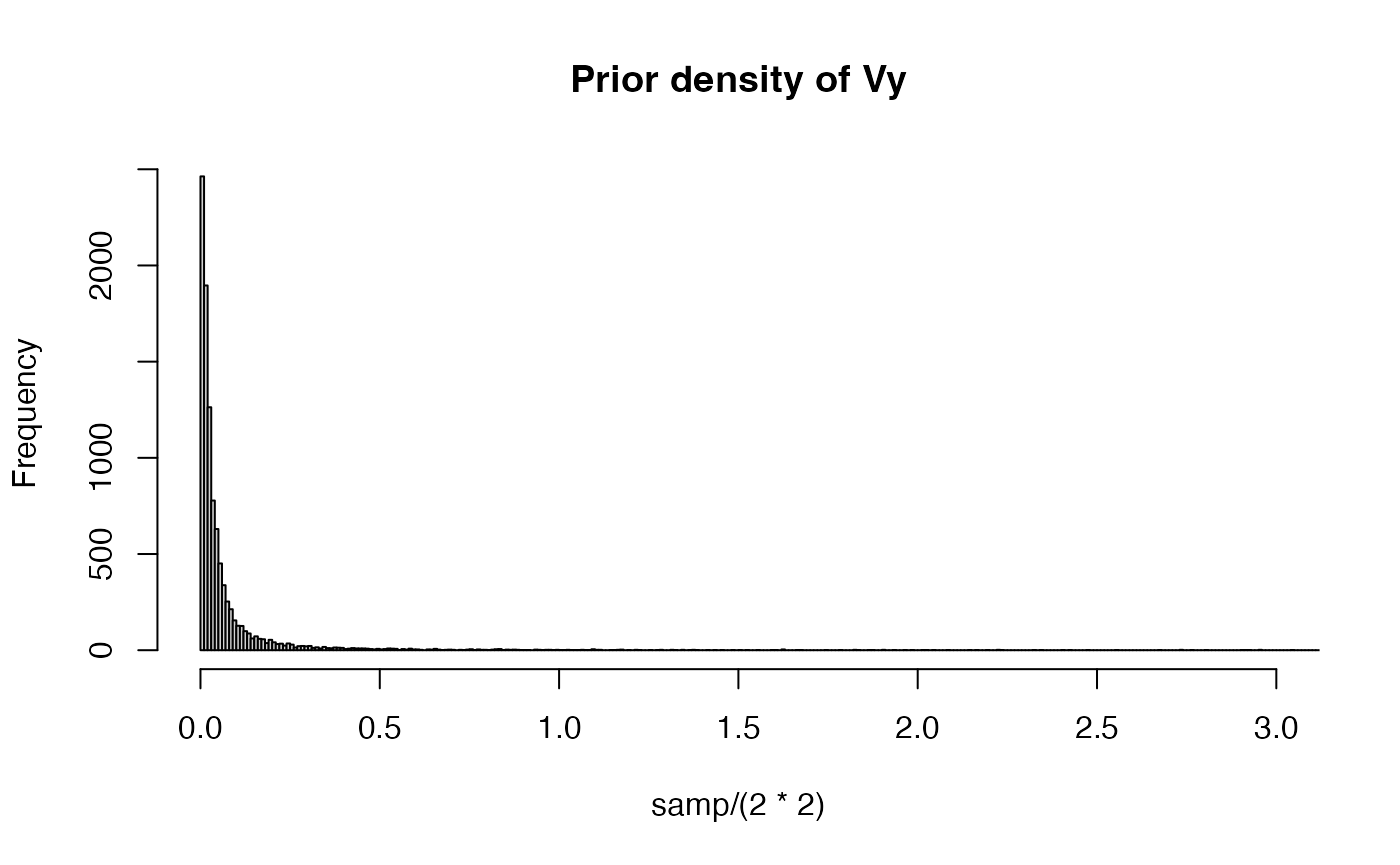
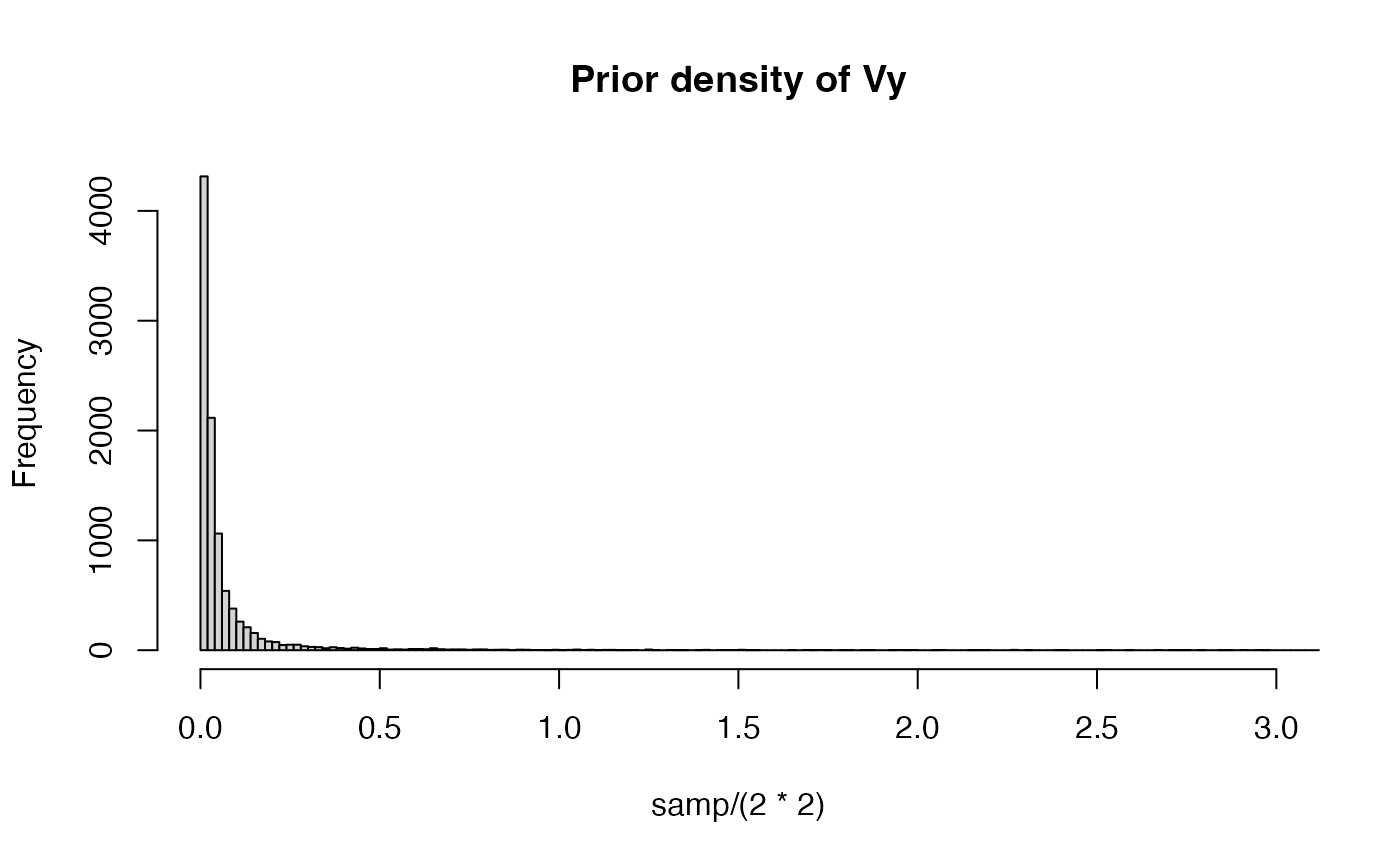
edit

diff --git a/docs/articles/OU-Models.html b/docs/articles/OU-Models.html
@@ -166,8 +166,9 @@
 <span class="va">ruminant.trdata</span><span class="op">$</span><span class="va">dat</span><span class="op">$</span><span class="va">bodycentered</span><span class="op">&lt;-</span><span class="va">ruminant.trdata</span><span class="op">$</span><span class="va">dat</span><span class="op">$</span><span class="va">body_mass_g_log_mean</span><span class="op">-</span><span class="fu"><a href="https://rdrr.io/r/base/mean.html" class="external-link">mean</a></span><span class="op">(</span><span class="va">ruminant.trdata</span><span class="op">$</span><span class="va">dat</span><span class="op">$</span><span class="va">body_mass_g_log_mean</span><span class="op">)</span></code></pre></div>
 </div>
 <div class="section level2">
-<h2 id="next-we-rescale-tree-to-height-1">Next, we rescale Tree to Height = 1<a class="anchor" aria-label="anchor" href="#next-we-rescale-tree-to-height-1"></a>
+<h2 id="rescale-tree">Rescale Tree<a class="anchor" aria-label="anchor" href="#rescale-tree"></a>
 </h2>
+<p>Next, we rescale Tree to Height = 1</p>
 <div class="sourceCode" id="cb4"><pre class="downlit sourceCode r">
 <code class="sourceCode R"><span class="va">l.tree</span><span class="op">&lt;-</span><span class="fu"><a href="https://rdrr.io/r/base/Extremes.html" class="external-link">max</a></span><span class="op">(</span><span class="fu"><a href="https://rdrr.io/pkg/ape/man/branching.times.html" class="external-link">branching.times</a></span><span class="op">(</span><span class="va">ruminant.trdata</span><span class="op">$</span><span class="va">phy</span><span class="op">)</span><span class="op">)</span>
 <span class="va">ruminant.trdata</span><span class="op">$</span><span class="va">phy</span><span class="op">$</span><span class="va">edge.length</span><span class="op">&lt;-</span><span class="va">ruminant.trdata</span><span class="op">$</span><span class="va">phy</span><span class="op">$</span><span class="va">edge.length</span><span class="op">/</span><span class="va">l.tree</span> <span class="co">## rescale tree to height 1</span>
@@ -175,9 +176,9 @@
 <span class="co">#&gt; [1] 1</span></code></pre></div>
 </div>
 <div class="section level2">
-<h2 id="running-blouch-data-setup-function---1st-trait-is-adapting-to-2">Running Blouch Data Setup Function - 1st trait is adapting to 2<a class="anchor" aria-label="anchor" href="#running-blouch-data-setup-function---1st-trait-is-adapting-to-2"></a>
+<h2 id="running-blouch-data-setup-function">Running Blouch Data Setup Function<a class="anchor" aria-label="anchor" href="#running-blouch-data-setup-function"></a>
 </h2>
-<p>Here we are finally setting up our dataset to run in Blouch, using the blouchOU.setup.v1() function. This function takes out data formatted by treeplyr, and the names of our traits of interest in the order shown. The list produced by this function has data formatted to run both the direct effect (constraint) models and adaptative models. See Grabowski et al. (2016) for more on both of these models.</p>
+<p>Here we are finally setting up our dataset to run in Blouch, using the blouchOU.setup.v1() function. This function takes out data formatted by treeplyr, and the names of our traits of interest in the order shown. The list produced by this function has data formatted to run both the direct effect (constraint) models and adaptative models. See Grabowski et al. (2016) for more on both of these models. Here the first trait is adapting towards the second.</p>
 <div class="sourceCode" id="cb5"><pre class="downlit sourceCode r">
 <code class="sourceCode R">
 <span class="co">#names.traits&lt;-c("brain_mass_g_log_mean","bodycentered","NA","NA") #With ME</span>
@@ -253,13 +254,13 @@
 <div class="sourceCode" id="cb9"><pre class="downlit sourceCode r">
 <code class="sourceCode R"><span class="co">#abline(v=(c(log(2)/0.07142857,log(2)/1)), col="red", lwd=2, lty=2) #Lines for 1 Ma and length of tree (14 Ma) - </span>
 <span class="fu"><a href="https://rdrr.io/r/base/Extremes.html" class="external-link">min</a></span><span class="op">(</span><span class="va">samp</span><span class="op">)</span>
-<span class="co">#&gt; [1] 0.02558487</span>
+<span class="co">#&gt; [1] 0.03632472</span>
 <span class="fu"><a href="https://rdrr.io/r/base/Extremes.html" class="external-link">max</a></span><span class="op">(</span><span class="va">samp</span><span class="op">)</span>
-<span class="co">#&gt; [1] 293.2979</span>
+<span class="co">#&gt; [1] 452.0468</span>
 <span class="fu"><a href="https://rdrr.io/r/base/Log.html" class="external-link">log</a></span><span class="op">(</span><span class="fl">2</span><span class="op">)</span><span class="op">/</span><span class="fu"><a href="https://rdrr.io/r/base/Extremes.html" class="external-link">min</a></span><span class="op">(</span><span class="va">samp</span><span class="op">)</span>
-<span class="co">#&gt; [1] 27.09208</span>
+<span class="co">#&gt; [1] 19.08197</span>
 <span class="fu"><a href="https://rdrr.io/r/base/Log.html" class="external-link">log</a></span><span class="op">(</span><span class="fl">2</span><span class="op">)</span><span class="op">/</span><span class="fu"><a href="https://rdrr.io/r/base/Extremes.html" class="external-link">max</a></span><span class="op">(</span><span class="va">samp</span><span class="op">)</span>
-<span class="co">#&gt; [1] 0.002363288</span>
+<span class="co">#&gt; [1] 0.001533353</span>
 
 <span class="va">quantiles</span> <span class="op">&lt;-</span> <span class="fu"><a href="https://rdrr.io/r/base/c.html" class="external-link">c</a></span><span class="op">(</span><span class="fl">0</span>, <span class="fl">0.01</span>, <span class="fl">0.025</span>,<span class="fl">0.10</span>, <span class="fl">0.25</span>, <span class="fl">0.5</span>, <span class="fl">0.75</span>,<span class="fl">0.90</span>,<span class="fl">0.95</span>, <span class="fl">0.975</span>, <span class="fl">0.99</span>, <span class="fl">1</span><span class="op">)</span>
 <span class="co">#hls &lt;- rlnorm(10000, meanlog=log(2)/par.alpha$meanlog, sdlog=log(2)/par.alpha$sdlog)</span>
@@ -267,7 +268,7 @@
 <span class="va">qs</span> <span class="op">&lt;-</span> <span class="fu"><a href="https://rdrr.io/r/stats/quantile.html" class="external-link">quantile</a></span><span class="op">(</span><span class="fu"><a href="https://rdrr.io/r/base/Log.html" class="external-link">log</a></span><span class="op">(</span><span class="fl">2</span><span class="op">)</span><span class="op">/</span><span class="va">samp</span>, <span class="va">quantiles</span><span class="op">)</span> <span class="co">## Use 'alfs' and math to calculate the quantiles of phylogenetic half-life</span>
 <span class="fu"><a href="https://rdrr.io/r/base/Round.html" class="external-link">round</a></span><span class="op">(</span><span class="va">qs</span>, <span class="fl">2</span><span class="op">)</span>
 <span class="co">#&gt;    0%    1%  2.5%   10%   25%   50%   75%   90%   95% 97.5%   99%  100% </span>
-<span class="co">#&gt;  0.00  0.01  0.02  0.04  0.09  0.20  0.47  0.99  1.55  2.45  3.93 27.09</span>
+<span class="co">#&gt;  0.00  0.01  0.02  0.04  0.09  0.20  0.46  0.98  1.52  2.26  3.72 19.08</span>
 
 <span class="fu"><a href="https://rdrr.io/r/graphics/hist.html" class="external-link">hist</a></span><span class="op">(</span><span class="op">(</span><span class="fu"><a href="https://rdrr.io/r/base/Log.html" class="external-link">log</a></span><span class="op">(</span><span class="fl">2</span><span class="op">)</span><span class="op">/</span><span class="va">samp</span><span class="op">)</span>, breaks<span class="op">=</span><span class="fl">10000</span>, main<span class="op">=</span><span class="st">"Prior density of half-life"</span>,xlim<span class="op">=</span><span class="fu"><a href="https://rdrr.io/r/base/c.html" class="external-link">c</a></span><span class="op">(</span><span class="fl">0</span>,<span class="fl">3</span><span class="op">)</span><span class="op">)</span>
 <span class="fu"><a href="https://rdrr.io/r/graphics/abline.html" class="external-link">abline</a></span><span class="op">(</span>v<span class="op">=</span><span class="op">(</span><span class="fu"><a href="https://rdrr.io/r/base/c.html" class="external-link">c</a></span><span class="op">(</span><span class="fl">0.04</span>,<span class="fl">1</span><span class="op">)</span><span class="op">)</span>, col<span class="op">=</span><span class="st">"red"</span>, lwd<span class="op">=</span><span class="fl">2</span>, lty<span class="op">=</span><span class="fl">2</span><span class="op">)</span> <span class="co">#Lines for 1 Ma and length of tree (27 Ma) - </span></code></pre></div>
@@ -297,13 +298,13 @@
 <div class="sourceCode" id="cb12"><pre class="downlit sourceCode r">
 <code class="sourceCode R"><span class="co">#abline(v=(c(log(2)/0.07142857,log(2)/1)), col="red", lwd=2, lty=2) #Lines for 1 Ma and length of tree (14 Ma) - </span>
 <span class="fu"><a href="https://rdrr.io/r/base/Extremes.html" class="external-link">min</a></span><span class="op">(</span><span class="va">samp</span><span class="op">)</span>
-<span class="co">#&gt; [1] 7.036343e-06</span>
+<span class="co">#&gt; [1] 1.342805e-05</span>
 <span class="fu"><a href="https://rdrr.io/r/base/Extremes.html" class="external-link">max</a></span><span class="op">(</span><span class="va">samp</span><span class="op">)</span>
-<span class="co">#&gt; [1] 500.6319</span>
+<span class="co">#&gt; [1] 689.2759</span>
 <span class="fu"><a href="https://rdrr.io/r/base/Log.html" class="external-link">log</a></span><span class="op">(</span><span class="fl">2</span><span class="op">)</span><span class="op">/</span><span class="fu"><a href="https://rdrr.io/r/base/Extremes.html" class="external-link">min</a></span><span class="op">(</span><span class="va">samp</span><span class="op">)</span>
-<span class="co">#&gt; [1] 98509.57</span>
+<span class="co">#&gt; [1] 51619.34</span>
 <span class="fu"><a href="https://rdrr.io/r/base/Log.html" class="external-link">log</a></span><span class="op">(</span><span class="fl">2</span><span class="op">)</span><span class="op">/</span><span class="fu"><a href="https://rdrr.io/r/base/Extremes.html" class="external-link">max</a></span><span class="op">(</span><span class="va">samp</span><span class="op">)</span>
-<span class="co">#&gt; [1] 0.001384545</span>
+<span class="co">#&gt; [1] 0.001005616</span>
 
 <span class="va">quantiles</span> <span class="op">&lt;-</span> <span class="fu"><a href="https://rdrr.io/r/base/c.html" class="external-link">c</a></span><span class="op">(</span><span class="fl">0</span>, <span class="fl">0.01</span>, <span class="fl">0.025</span>,<span class="fl">0.10</span>, <span class="fl">0.25</span>, <span class="fl">0.5</span>, <span class="fl">0.75</span>, <span class="fl">0.90</span>, <span class="fl">0.975</span>, <span class="fl">0.99</span>, <span class="fl">1</span><span class="op">)</span>
 <span class="co">#hls &lt;- rlnorm(10000, meanlog=log(2)/par.alpha$meanlog, sdlog=log(2)/par.alpha$sdlog)</span>
@@ -311,7 +312,7 @@
 <span class="va">qs</span> <span class="op">&lt;-</span> <span class="fu"><a href="https://rdrr.io/r/stats/quantile.html" class="external-link">quantile</a></span><span class="op">(</span><span class="va">samp</span>, <span class="va">quantiles</span><span class="op">)</span> <span class="co">## Use 'alfs' and math to calculate the quantiles of phylogenetic half-life</span>
 <span class="fu"><a href="https://rdrr.io/r/base/Round.html" class="external-link">round</a></span><span class="op">(</span><span class="va">qs</span>, <span class="fl">2</span><span class="op">)</span>
 <span class="co">#&gt;     0%     1%   2.5%    10%    25%    50%    75%    90%  97.5%    99%   100% </span>
-<span class="co">#&gt;   0.00   0.00   0.00   0.02   0.04   0.10   0.24   0.63   2.33   5.95 500.63</span>
+<span class="co">#&gt;   0.00   0.00   0.00   0.02   0.04   0.10   0.24   0.62   2.57   6.93 689.28</span>
 
 <span class="fu"><a href="https://rdrr.io/r/graphics/hist.html" class="external-link">hist</a></span><span class="op">(</span><span class="va">samp</span><span class="op">/</span><span class="op">(</span><span class="fl">2</span><span class="op">*</span><span class="fl">2</span><span class="op">)</span>, breaks<span class="op">=</span><span class="fl">10000</span>, main<span class="op">=</span><span class="st">"Prior density of Vy"</span>,xlim<span class="op">=</span><span class="fu"><a href="https://rdrr.io/r/base/c.html" class="external-link">c</a></span><span class="op">(</span><span class="fl">0</span>,<span class="fl">3</span><span class="op">)</span><span class="op">)</span></code></pre></div>
 <p><img src="OU-Models_files/figure-html/unnamed-chunk-6-2.png" width="700"></p>
@@ -336,15 +337,15 @@
 <span class="co">#&gt; post-warmup draws per chain=2000, total post-warmup draws=4000.</span>
 <span class="co">#&gt; </span>
 <span class="co">#&gt;           mean se_mean   sd 2.5%  25%  50%  75% 97.5% n_eff Rhat</span>
-<span class="co">#&gt; a         5.56    0.28 8.49 0.45 1.51 2.84 5.71 29.44   899 1.00</span>
-<span class="co">#&gt; hl        0.38    0.01 0.45 0.02 0.12 0.24 0.46  1.54  1183 1.00</span>
-<span class="co">#&gt; alpha     5.05    0.00 0.04 4.97 5.03 5.06 5.08  5.13  1427 1.00</span>
-<span class="co">#&gt; beta[1]   0.57    0.00 0.02 0.53 0.55 0.57 0.58  0.61  2535 1.00</span>
-<span class="co">#&gt; vy        0.02    0.00 0.01 0.01 0.01 0.01 0.02  0.04   988 1.00</span>
-<span class="co">#&gt; r_squared 0.96    0.00 0.00 0.95 0.96 0.96 0.96  0.97   740 1.01</span>
-<span class="co">#&gt; sigma2_y  0.15    0.01 0.23 0.02 0.05 0.08 0.15  0.85   783 1.00</span>
+<span class="co">#&gt; a         5.67    0.26 8.54 0.39 1.44 2.87 6.02 29.39  1072    1</span>
+<span class="co">#&gt; hl        0.40    0.01 0.51 0.02 0.12 0.24 0.48  1.78  1730    1</span>
+<span class="co">#&gt; alpha     5.05    0.00 0.04 4.97 5.03 5.05 5.08  5.14  1454    1</span>
+<span class="co">#&gt; beta[1]   0.57    0.00 0.02 0.53 0.55 0.57 0.58  0.61  2000    1</span>
+<span class="co">#&gt; vy        0.02    0.00 0.01 0.01 0.01 0.02 0.02  0.05  2207    1</span>
+<span class="co">#&gt; r_squared 0.96    0.00 0.00 0.95 0.96 0.96 0.96  0.97  1030    1</span>
+<span class="co">#&gt; sigma2_y  0.16    0.01 0.22 0.02 0.05 0.08 0.16  0.78   979    1</span>
 <span class="co">#&gt; </span>
-<span class="co">#&gt; Samples were drawn using NUTS(diag_e) at Thu Dec  9 08:44:10 2021.</span>
+<span class="co">#&gt; Samples were drawn using NUTS(diag_e) at Thu Dec  9 09:18:25 2021.</span>
 <span class="co">#&gt; For each parameter, n_eff is a crude measure of effective sample size,</span>
 <span class="co">#&gt; and Rhat is the potential scale reduction factor on split chains (at </span>
 <span class="co">#&gt; convergence, Rhat=1).</span>
@@ -383,18 +384,18 @@
 <span class="co">#&gt; 2 chains, each with iter=4000; warmup=2000; thin=1; </span>
 <span class="co">#&gt; post-warmup draws per chain=2000, total post-warmup draws=4000.</span>
 <span class="co">#&gt; </span>
-<span class="co">#&gt;               mean se_mean    sd  2.5%   25%   50%   75% 97.5% n_eff Rhat</span>
-<span class="co">#&gt; a            42.54    0.49 22.15 15.28 27.02 37.40 51.74 99.68  2081    1</span>
-<span class="co">#&gt; hl            0.02    0.00  0.01  0.01  0.01  0.02  0.03  0.05  2368    1</span>
-<span class="co">#&gt; alpha         5.06    0.00  0.03  4.99  5.04  5.06  5.08  5.12  2627    1</span>
-<span class="co">#&gt; beta[1]       0.59    0.00  0.02  0.55  0.57  0.59  0.60  0.63  3237    1</span>
-<span class="co">#&gt; beta_evol[1]  5.06    0.00  0.00  5.05  5.06  5.06  5.06  5.06  3958    1</span>
-<span class="co">#&gt; beta_evol[2]  0.57    0.00  0.00  0.57  0.57  0.57  0.57  0.57  2795    1</span>
-<span class="co">#&gt; vy            0.01    0.00  0.00  0.00  0.00  0.00  0.01  0.02  3318    1</span>
-<span class="co">#&gt; r_squared     0.96    0.00  0.00  0.95  0.96  0.96  0.96  0.97  1583    1</span>
-<span class="co">#&gt; sigma2_y      0.47    0.01  0.49  0.01  0.12  0.30  0.67  1.86  2094    1</span>
+<span class="co">#&gt;               mean se_mean    sd  2.5%   25%   50%   75%  97.5% n_eff Rhat</span>
+<span class="co">#&gt; a            42.34    0.59 22.73 14.84 27.04 36.79 51.70 101.32  1496    1</span>
+<span class="co">#&gt; hl            0.02    0.00  0.01  0.01  0.01  0.02  0.03   0.05  1771    1</span>
+<span class="co">#&gt; alpha         5.06    0.00  0.03  4.99  5.04  5.06  5.08   5.12  2533    1</span>
+<span class="co">#&gt; beta[1]       0.59    0.00  0.02  0.55  0.57  0.59  0.60   0.63  2705    1</span>
+<span class="co">#&gt; beta_evol[1]  5.06    0.00  0.00  5.05  5.06  5.06  5.06   5.06  3868    1</span>
+<span class="co">#&gt; beta_evol[2]  0.57    0.00  0.00  0.57  0.57  0.57  0.57   0.57  2226    1</span>
+<span class="co">#&gt; vy            0.01    0.00  0.00  0.00  0.00  0.00  0.01   0.02  3503    1</span>
+<span class="co">#&gt; r_squared     0.96    0.00  0.00  0.95  0.96  0.96  0.96   0.97  1557    1</span>
+<span class="co">#&gt; sigma2_y      0.47    0.01  0.47  0.01  0.12  0.31  0.67   1.82  1872    1</span>
 <span class="co">#&gt; </span>
-<span class="co">#&gt; Samples were drawn using NUTS(diag_e) at Thu Dec  9 08:48:58 2021.</span>
+<span class="co">#&gt; Samples were drawn using NUTS(diag_e) at Thu Dec  9 09:24:19 2021.</span>
 <span class="co">#&gt; For each parameter, n_eff is a crude measure of effective sample size,</span>
 <span class="co">#&gt; and Rhat is the potential scale reduction factor on split chains (at </span>
 <span class="co">#&gt; convergence, Rhat=1).</span>
@@ -423,7 +424,7 @@
 <span class="va">lml.fit.adaptive</span><span class="op">&lt;-</span><span class="fu"><a href="https://rdrr.io/pkg/bridgesampling/man/bridge_sampler.html" class="external-link">bridge_sampler</a></span><span class="op">(</span><span class="va">fit.adaptive</span>,silent<span class="op">=</span><span class="cn">TRUE</span><span class="op">)</span>
 <span class="va">BF_att</span> <span class="op">&lt;-</span> <span class="fu">bridgesampling</span><span class="fu">::</span><span class="fu"><a href="https://rdrr.io/pkg/bridgesampling/man/bf.html" class="external-link">bf</a></span><span class="op">(</span><span class="va">lml.fit.direct</span>, <span class="va">lml.fit.adaptive</span><span class="op">)</span>
 <span class="va">BF_att</span>
-<span class="co">#&gt; Estimated Bayes factor in favor of lml.fit.direct over lml.fit.adaptive: 33.98126</span></code></pre></div>
+<span class="co">#&gt; Estimated Bayes factor in favor of lml.fit.direct over lml.fit.adaptive: 33.22295</span></code></pre></div>
 <p>We find that the data is 5.2 more likely under a model that assumes a direct effect model rather than af adaptive model.</p>
 </div>
 <div class="section level2">
@@ -439,12 +440,12 @@
 <span class="co">#&gt; post-warmup draws per chain=2000, total post-warmup draws=4000.</span>
 <span class="co">#&gt; </span>
 <span class="co">#&gt;           mean se_mean   sd 2.5%  25%  50%  75% 97.5% n_eff Rhat</span>
-<span class="co">#&gt; alpha     5.05       0 0.08 4.87 5.00 5.05 5.11  5.21  3035    1</span>
-<span class="co">#&gt; beta[1]   0.56       0 0.02 0.51 0.54 0.56 0.57  0.60  3365    1</span>
-<span class="co">#&gt; r_squared 0.99       0 0.01 0.98 0.99 0.99 0.99  0.99  2315    1</span>
-<span class="co">#&gt; sigma2_y  0.03       0 0.01 0.01 0.02 0.02 0.03  0.05  2752    1</span>
+<span class="co">#&gt; alpha     5.05       0 0.08 4.89 5.00 5.05 5.11  5.22  2861    1</span>
+<span class="co">#&gt; beta[1]   0.56       0 0.02 0.51 0.54 0.56 0.57  0.60  2949    1</span>
+<span class="co">#&gt; r_squared 0.99       0 0.01 0.98 0.99 0.99 0.99  0.99  2577    1</span>
+<span class="co">#&gt; sigma2_y  0.03       0 0.01 0.01 0.02 0.02 0.03  0.05  3048    1</span>
 <span class="co">#&gt; </span>
-<span class="co">#&gt; Samples were drawn using NUTS(diag_e) at Thu Dec  9 08:51:54 2021.</span>
+<span class="co">#&gt; Samples were drawn using NUTS(diag_e) at Thu Dec  9 09:27:32 2021.</span>
 <span class="co">#&gt; For each parameter, n_eff is a crude measure of effective sample size,</span>
 <span class="co">#&gt; and Rhat is the potential scale reduction factor on split chains (at </span>
 <span class="co">#&gt; convergence, Rhat=1).</span>
@@ -474,7 +475,7 @@
 
 <span class="va">BF_att</span> <span class="op">&lt;-</span> <span class="fu">bridgesampling</span><span class="fu">::</span><span class="fu"><a href="https://rdrr.io/pkg/bridgesampling/man/bf.html" class="external-link">bf</a></span><span class="op">(</span><span class="va">lml.fit.direct</span>, <span class="va">lml.fit.BM</span><span class="op">)</span>
 <span class="va">BF_att</span>
-<span class="co">#&gt; Estimated Bayes factor in favor of lml.fit.direct over lml.fit.BM: 1.30015</span></code></pre></div>
+<span class="co">#&gt; Estimated Bayes factor in favor of lml.fit.direct over lml.fit.BM: 1.30701</span></code></pre></div>
 <p>Here the direct fit model has a Bayes Factor of 0.7 over the BM model, which makes sense for this data as the estimated phylogenetic half life is quite long, 65% the length of the phylogeny.</p>
 </div>
 <div class="section level2">

diff --git a/docs/articles/OU-Models-Prediction.html b/docs/articles/OU-Models-Prediction.html
@@ -163,7 +163,7 @@
 
 <span class="co">## Plot the tree</span>
 <span class="fu"><a href="https://rdrr.io/r/graphics/plot.default.html" class="external-link">plot</a></span><span class="op">(</span><span class="fu"><a href="https://rdrr.io/pkg/ape/man/ladderize.html" class="external-link">ladderize</a></span><span class="op">(</span><span class="va">phy</span><span class="op">)</span>, cex <span class="op">=</span> <span class="fl">0.6</span><span class="op">)</span></code></pre></div>
-<p><img src="OU-Models-Prediction_files/figure-html/unnamed-chunk-2-1.png" width="700"> ## Data Prep We will use the treeplyr function make.treedata to combine the data and tree based on the “species” column, which has the taxa names. See <a href="https://github.com/uyedaj/treeplyr" class="external-link uri">https://github.com/uyedaj/treeplyr</a> for more on this package.Then we will finlter the data so only individuals with both brain and body size, as well as the variance in brain and body size are included. Variance in these traits is considered measurement error, estimation error in species averages.</p>
+<p><img src="OU-Models-Prediction_files/figure-html/unnamed-chunk-2-1.png" width="700"> ## Data Prep We will use the treeplyr function make.treedata to combine the data and tree based on the “species” column, which has the taxa names. See <a href="https://github.com/uyedaj/treeplyr" class="external-link uri">https://github.com/uyedaj/treeplyr</a> for more on this package.Then we will filter the data so only individuals with both brain and body size, as well as the variance in brain and body size are included. Variance in these traits is considered measurement error, estimation error in species averages.</p>
 <div class="sourceCode" id="cb3"><pre class="downlit sourceCode r">
 <code class="sourceCode R"><span class="va">ruminant.trdata</span> <span class="op">&lt;-</span> <span class="fu"><a href="https://rdrr.io/pkg/treeplyr/man/make.treedata.html" class="external-link">make.treedata</a></span><span class="op">(</span><span class="va">phy</span>, <span class="va">neocortex</span>,name_column<span class="op">=</span><span class="st">"species"</span><span class="op">)</span>
 
@@ -245,17 +245,17 @@
 <span class="co">#&gt; post-warmup draws per chain=2000, total post-warmup draws=4000.</span>
 <span class="co">#&gt; </span>
 <span class="co">#&gt;                      mean se_mean   sd  2.5%   25%   50%   75% 97.5% n_eff Rhat</span>
-<span class="co">#&gt; a                    5.73    0.32 9.03  0.40  1.35  2.77  5.96 31.02   783    1</span>
-<span class="co">#&gt; hl                   0.41    0.01 0.50  0.02  0.12  0.25  0.51  1.74  1581    1</span>
-<span class="co">#&gt; alpha                5.07    0.00 0.04  5.00  5.04  5.06  5.09  5.15  1610    1</span>
-<span class="co">#&gt; beta[1]              0.57    0.00 0.02  0.53  0.56  0.57  0.58  0.61  2191    1</span>
-<span class="co">#&gt; r_squared            0.96    0.00 0.00  0.95  0.96  0.96  0.97  0.97  1249    1</span>
-<span class="co">#&gt; sigma2_y             0.15    0.01 0.24  0.02  0.04  0.07  0.15  0.80   740    1</span>
-<span class="co">#&gt; RMSE                 0.29    0.00 0.03  0.25  0.28  0.29  0.31  0.35  3318    1</span>
-<span class="co">#&gt; RMSE_mu              0.27    0.00 0.02  0.26  0.26  0.26  0.27  0.32  1031    1</span>
-<span class="co">#&gt; X_pred_fos_means[1] -0.47    0.00 0.17 -0.82 -0.59 -0.47 -0.36 -0.13  3445    1</span>
+<span class="co">#&gt; a                    5.44    0.28 8.39  0.39  1.32  2.60  5.95 28.49   917    1</span>
+<span class="co">#&gt; hl                   0.42    0.01 0.56  0.02  0.12  0.27  0.53  1.79  2010    1</span>
+<span class="co">#&gt; alpha                5.07    0.00 0.04  4.99  5.04  5.06  5.09  5.15  2074    1</span>
+<span class="co">#&gt; beta[1]              0.57    0.00 0.02  0.53  0.56  0.57  0.58  0.61  1912    1</span>
+<span class="co">#&gt; r_squared            0.96    0.00 0.00  0.95  0.96  0.96  0.97  0.97  1088    1</span>
+<span class="co">#&gt; sigma2_y             0.14    0.01 0.21  0.02  0.04  0.07  0.15  0.75   959    1</span>
+<span class="co">#&gt; RMSE                 0.29    0.00 0.03  0.24  0.28  0.29  0.31  0.35  3657    1</span>
+<span class="co">#&gt; RMSE_mu              0.27    0.00 0.02  0.26  0.26  0.26  0.27  0.32  1218    1</span>
+<span class="co">#&gt; X_pred_fos_means[1] -0.47    0.00 0.17 -0.81 -0.59 -0.47 -0.36 -0.13  3567    1</span>
 <span class="co">#&gt; </span>
-<span class="co">#&gt; Samples were drawn using NUTS(diag_e) at Thu Dec  9 08:32:30 2021.</span>
+<span class="co">#&gt; Samples were drawn using NUTS(diag_e) at Thu Dec  9 09:07:15 2021.</span>
 <span class="co">#&gt; For each parameter, n_eff is a crude measure of effective sample size,</span>
 <span class="co">#&gt; and Rhat is the potential scale reduction factor on split chains (at </span>
 <span class="co">#&gt; convergence, Rhat=1).</span>
@@ -441,17 +441,17 @@
 <span class="co">#&gt; post-warmup draws per chain=2000, total post-warmup draws=4000.</span>
 <span class="co">#&gt; </span>
 <span class="co">#&gt;                     mean se_mean   sd 2.5%  25%  50%  75% 97.5% n_eff Rhat</span>
-<span class="co">#&gt; a                   5.48    0.28 8.56 0.39 1.34 2.74 5.90 27.43   952 1.00</span>
-<span class="co">#&gt; hl                  0.42    0.01 0.53 0.03 0.12 0.25 0.52  1.79  1820 1.00</span>
-<span class="co">#&gt; alpha               5.07    0.00 0.04 4.99 5.04 5.06 5.09  5.16  1226 1.00</span>
-<span class="co">#&gt; beta[1]             0.57    0.00 0.02 0.53 0.56 0.57 0.58  0.61  2656 1.00</span>
-<span class="co">#&gt; r_squared           0.96    0.00 0.00 0.95 0.96 0.96 0.97  0.97   988 1.00</span>
-<span class="co">#&gt; sigma2_y            0.15    0.01 0.23 0.02 0.04 0.07 0.15  0.77   893 1.00</span>
-<span class="co">#&gt; RMSE                0.21    0.00 0.03 0.17 0.20 0.21 0.23  0.27  3306 1.00</span>
-<span class="co">#&gt; RMSE_mu             0.16    0.00 0.01 0.15 0.15 0.15 0.16  0.19   792 1.01</span>
-<span class="co">#&gt; Y_pred_fos_means[1] 5.10    0.00 0.13 4.85 5.02 5.10 5.18  5.35  3512 1.00</span>
+<span class="co">#&gt; a                   5.81    0.27 8.51 0.45 1.53 2.92 6.49 31.02   973    1</span>
+<span class="co">#&gt; hl                  0.37    0.01 0.49 0.02 0.11 0.24 0.45  1.53  1678    1</span>
+<span class="co">#&gt; alpha               5.06    0.00 0.04 5.00 5.04 5.06 5.08  5.15  2123    1</span>
+<span class="co">#&gt; beta[1]             0.57    0.00 0.02 0.53 0.56 0.57 0.58  0.61  2089    1</span>
+<span class="co">#&gt; r_squared           0.96    0.00 0.00 0.95 0.96 0.96 0.97  0.97  1222    1</span>
+<span class="co">#&gt; sigma2_y            0.15    0.01 0.23 0.02 0.04 0.08 0.16  0.82   874    1</span>
+<span class="co">#&gt; RMSE                0.21    0.00 0.03 0.17 0.20 0.21 0.23  0.27  3701    1</span>
+<span class="co">#&gt; RMSE_mu             0.15    0.00 0.01 0.15 0.15 0.15 0.16  0.18  1210    1</span>
+<span class="co">#&gt; Y_pred_fos_means[1] 5.09    0.00 0.13 4.85 5.01 5.09 5.17  5.34  3531    1</span>
 <span class="co">#&gt; </span>
-<span class="co">#&gt; Samples were drawn using NUTS(diag_e) at Thu Dec  9 08:38:06 2021.</span>
+<span class="co">#&gt; Samples were drawn using NUTS(diag_e) at Thu Dec  9 09:12:09 2021.</span>
 <span class="co">#&gt; For each parameter, n_eff is a crude measure of effective sample size,</span>
 <span class="co">#&gt; and Rhat is the potential scale reduction factor on split chains (at </span>
 <span class="co">#&gt; convergence, Rhat=1).</span>
